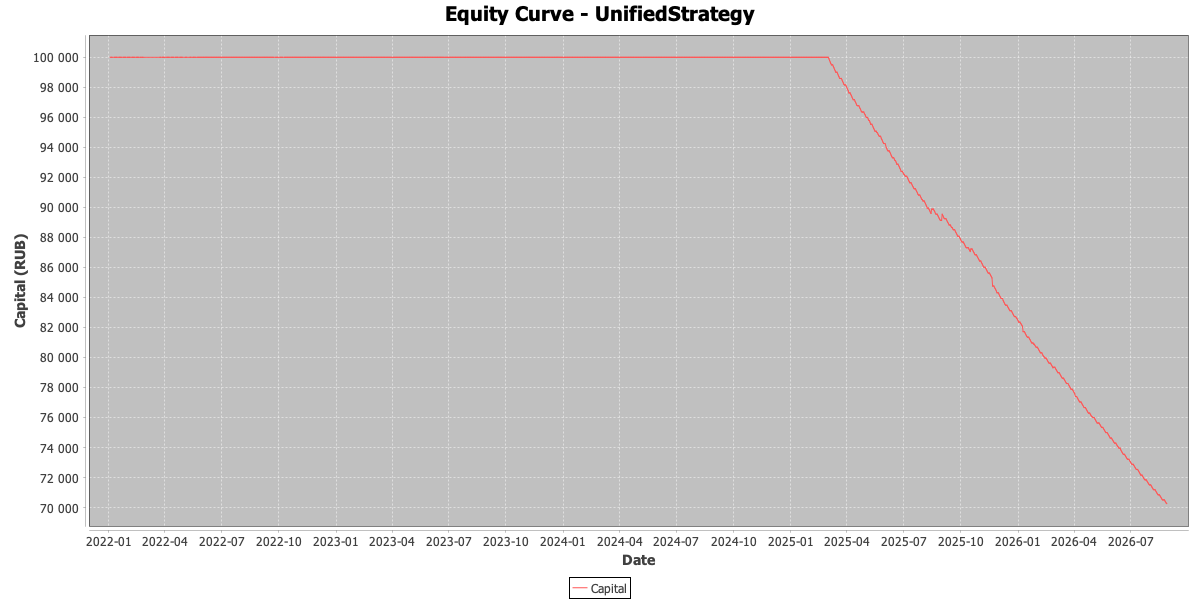
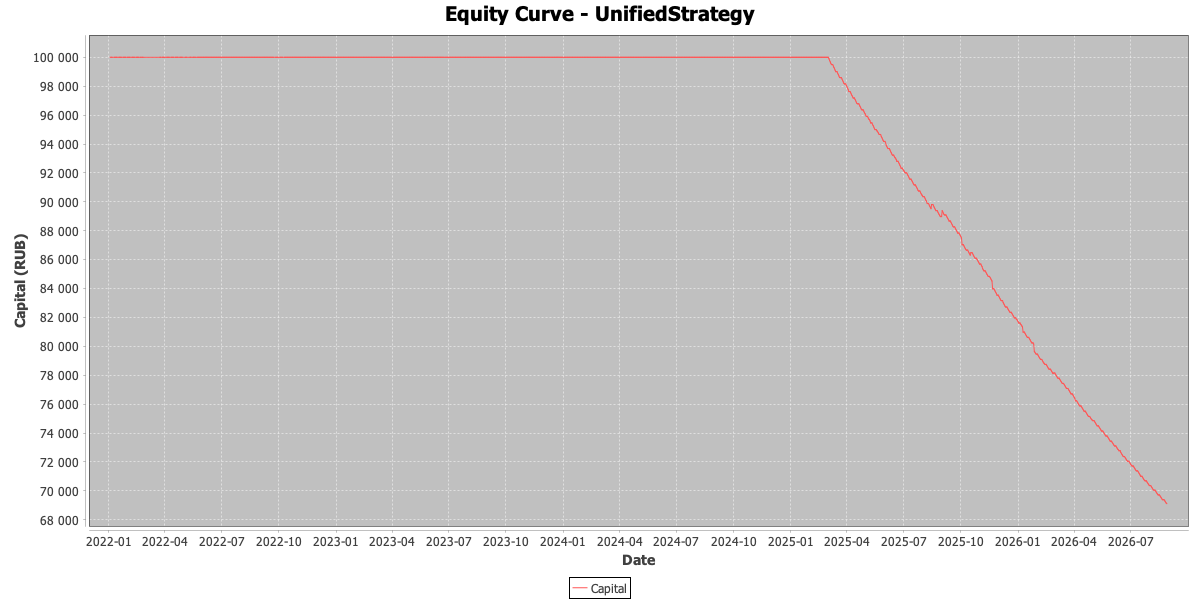
GD-0 Обновить документацию и удалить RegimeAwareStrategy.png
- Обновить комментарий в UnifiedStrategy.java (marketRegimeFilterEnabled по умолчанию false)
- Удалить RegimeAwareStrategy.png (стратегия объединена)
- Обновить UnifiedStrategy.png (последний бектест)

diff --git a/src/main/java/com/github/shk0da/goldendragon/strategy/UnifiedStrategy.java b/src/main/java/com/github/shk0da/goldendragon/strategy/UnifiedStrategy.java
@@ -53,7 +53,7 @@ import java.util.concurrent.ConcurrentMap;
  *   <li><b>RANGE (ADX ≤ 16)</b> — флэт, блокируются все входы
  * </ul>
  *
- * <p>Включается флагом {@code config.marketRegimeFilterEnabled} (по умолчанию true).
+ * <p>Включается флагом {@code config.marketRegimeFilterEnabled} (по умолчанию false).
  *
  * <h2>Сигнальная логика</h2>
  *
